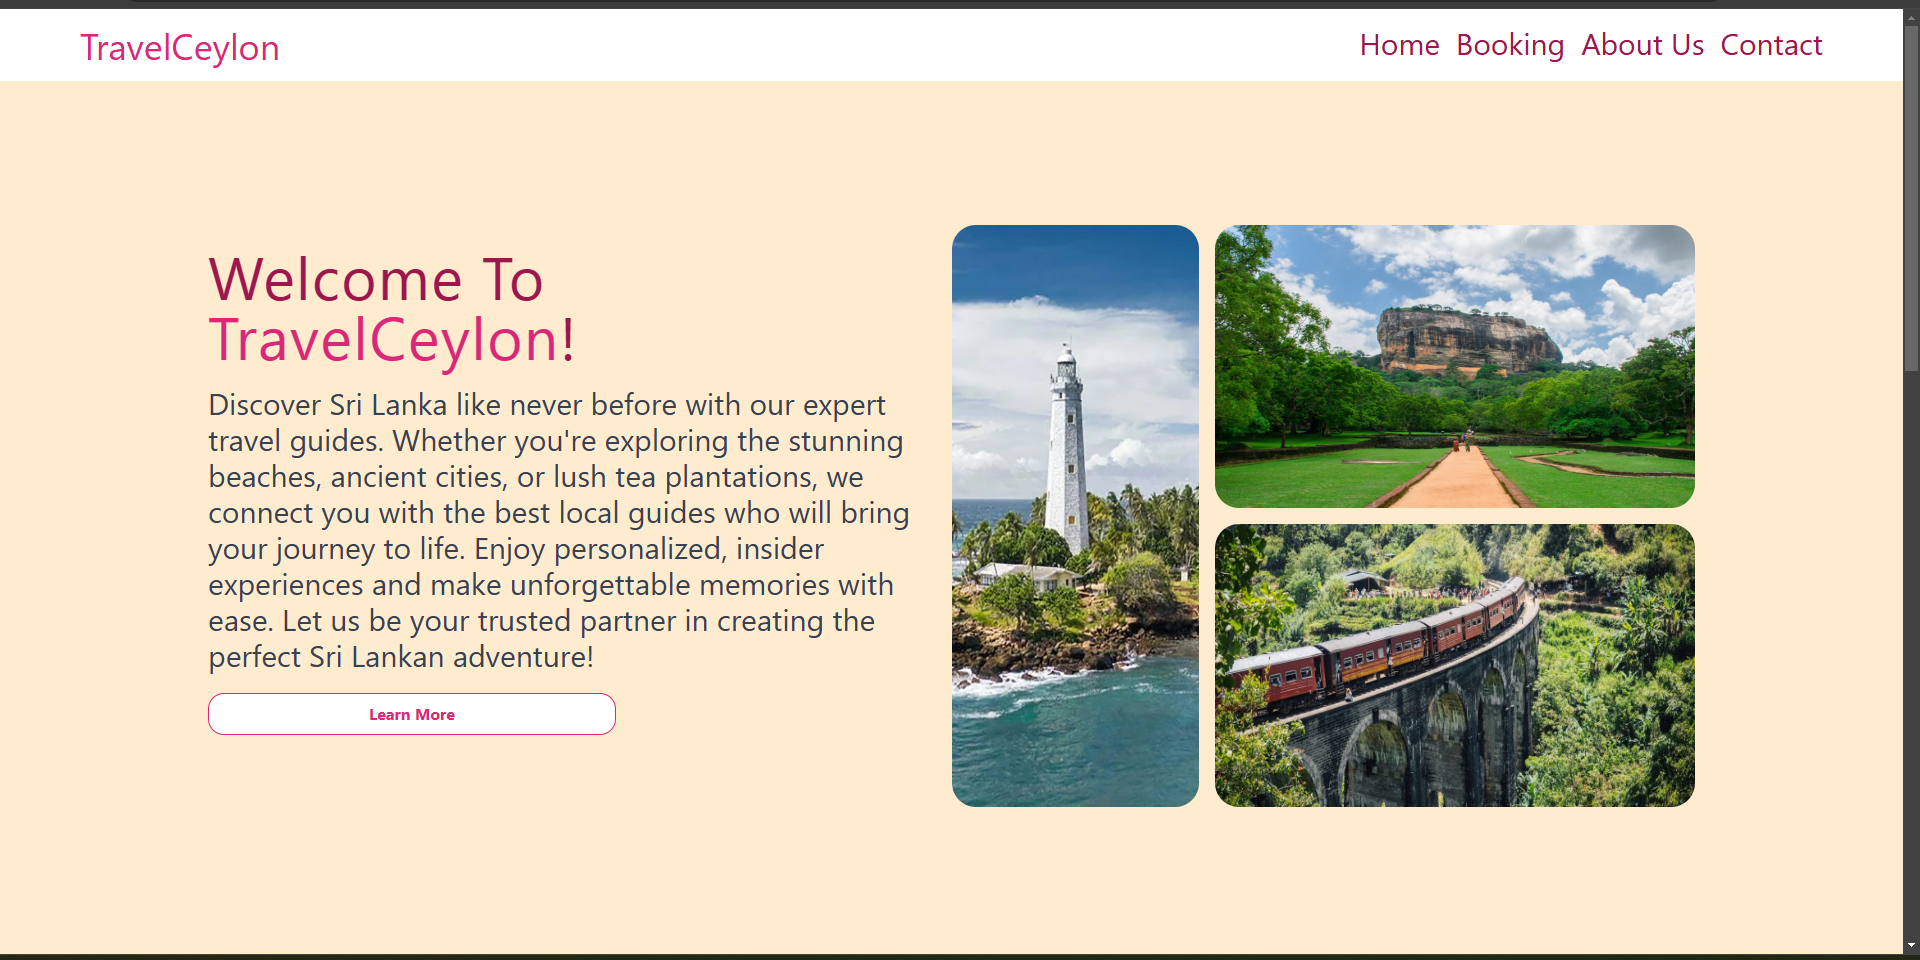
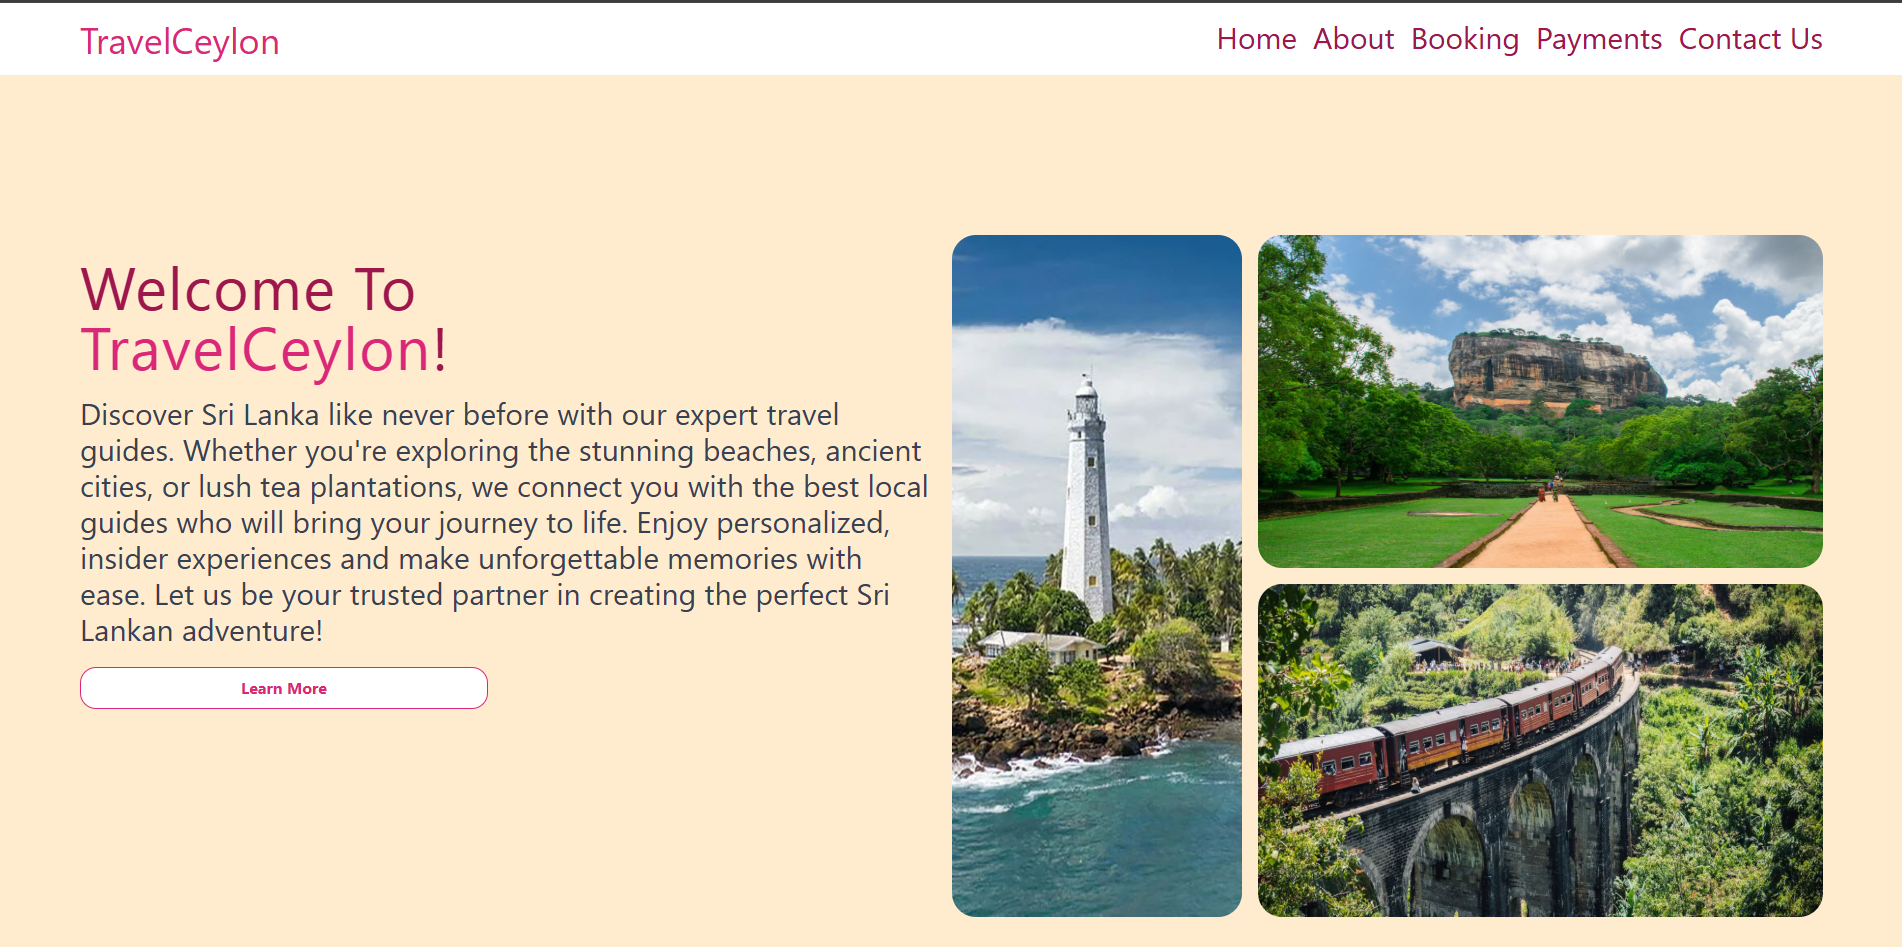
readme

diff --git a/README.md b/README.md
@@ -35,6 +35,7 @@ npm install
 npm install -D tailwindcss postcss autoprefixer
 npx tailwindcss init -p
 npm install react-icons --save
+npm install react-router-dom
 ```
 
 ### 3. Start the Development Server
@@ -51,7 +52,8 @@ npm run dev
 - **Tailwind CSS:** For styling and responsiveness.
 - **React Icons:** For adding icons throughout the website.
 
-![React](https://img.shields.io/badge/React-61DAFB.svg?style=for-the-badge&logo=React&logoColor=black) 
-![Tailwind CSS](https://img.shields.io/badge/Tailwind%20CSS-06B6D4.svg?style=for-the-badge&logo=Tailwind%20CSS&logoColor=white) 
+![React](https://img.shields.io/badge/React-61DAFB.svg?style=for-the-badge&logo=React&logoColor=black)
+![Tailwind CSS](https://img.shields.io/badge/Tailwind%20CSS-06B6D4.svg?style=for-the-badge&logo=Tailwind%20CSS&logoColor=white)
+![React Router](https://img.shields.io/badge/React%20Router-CA4245.svg?style=for-the-badge&logo=react-router&logoColor=white)
 
 ---
